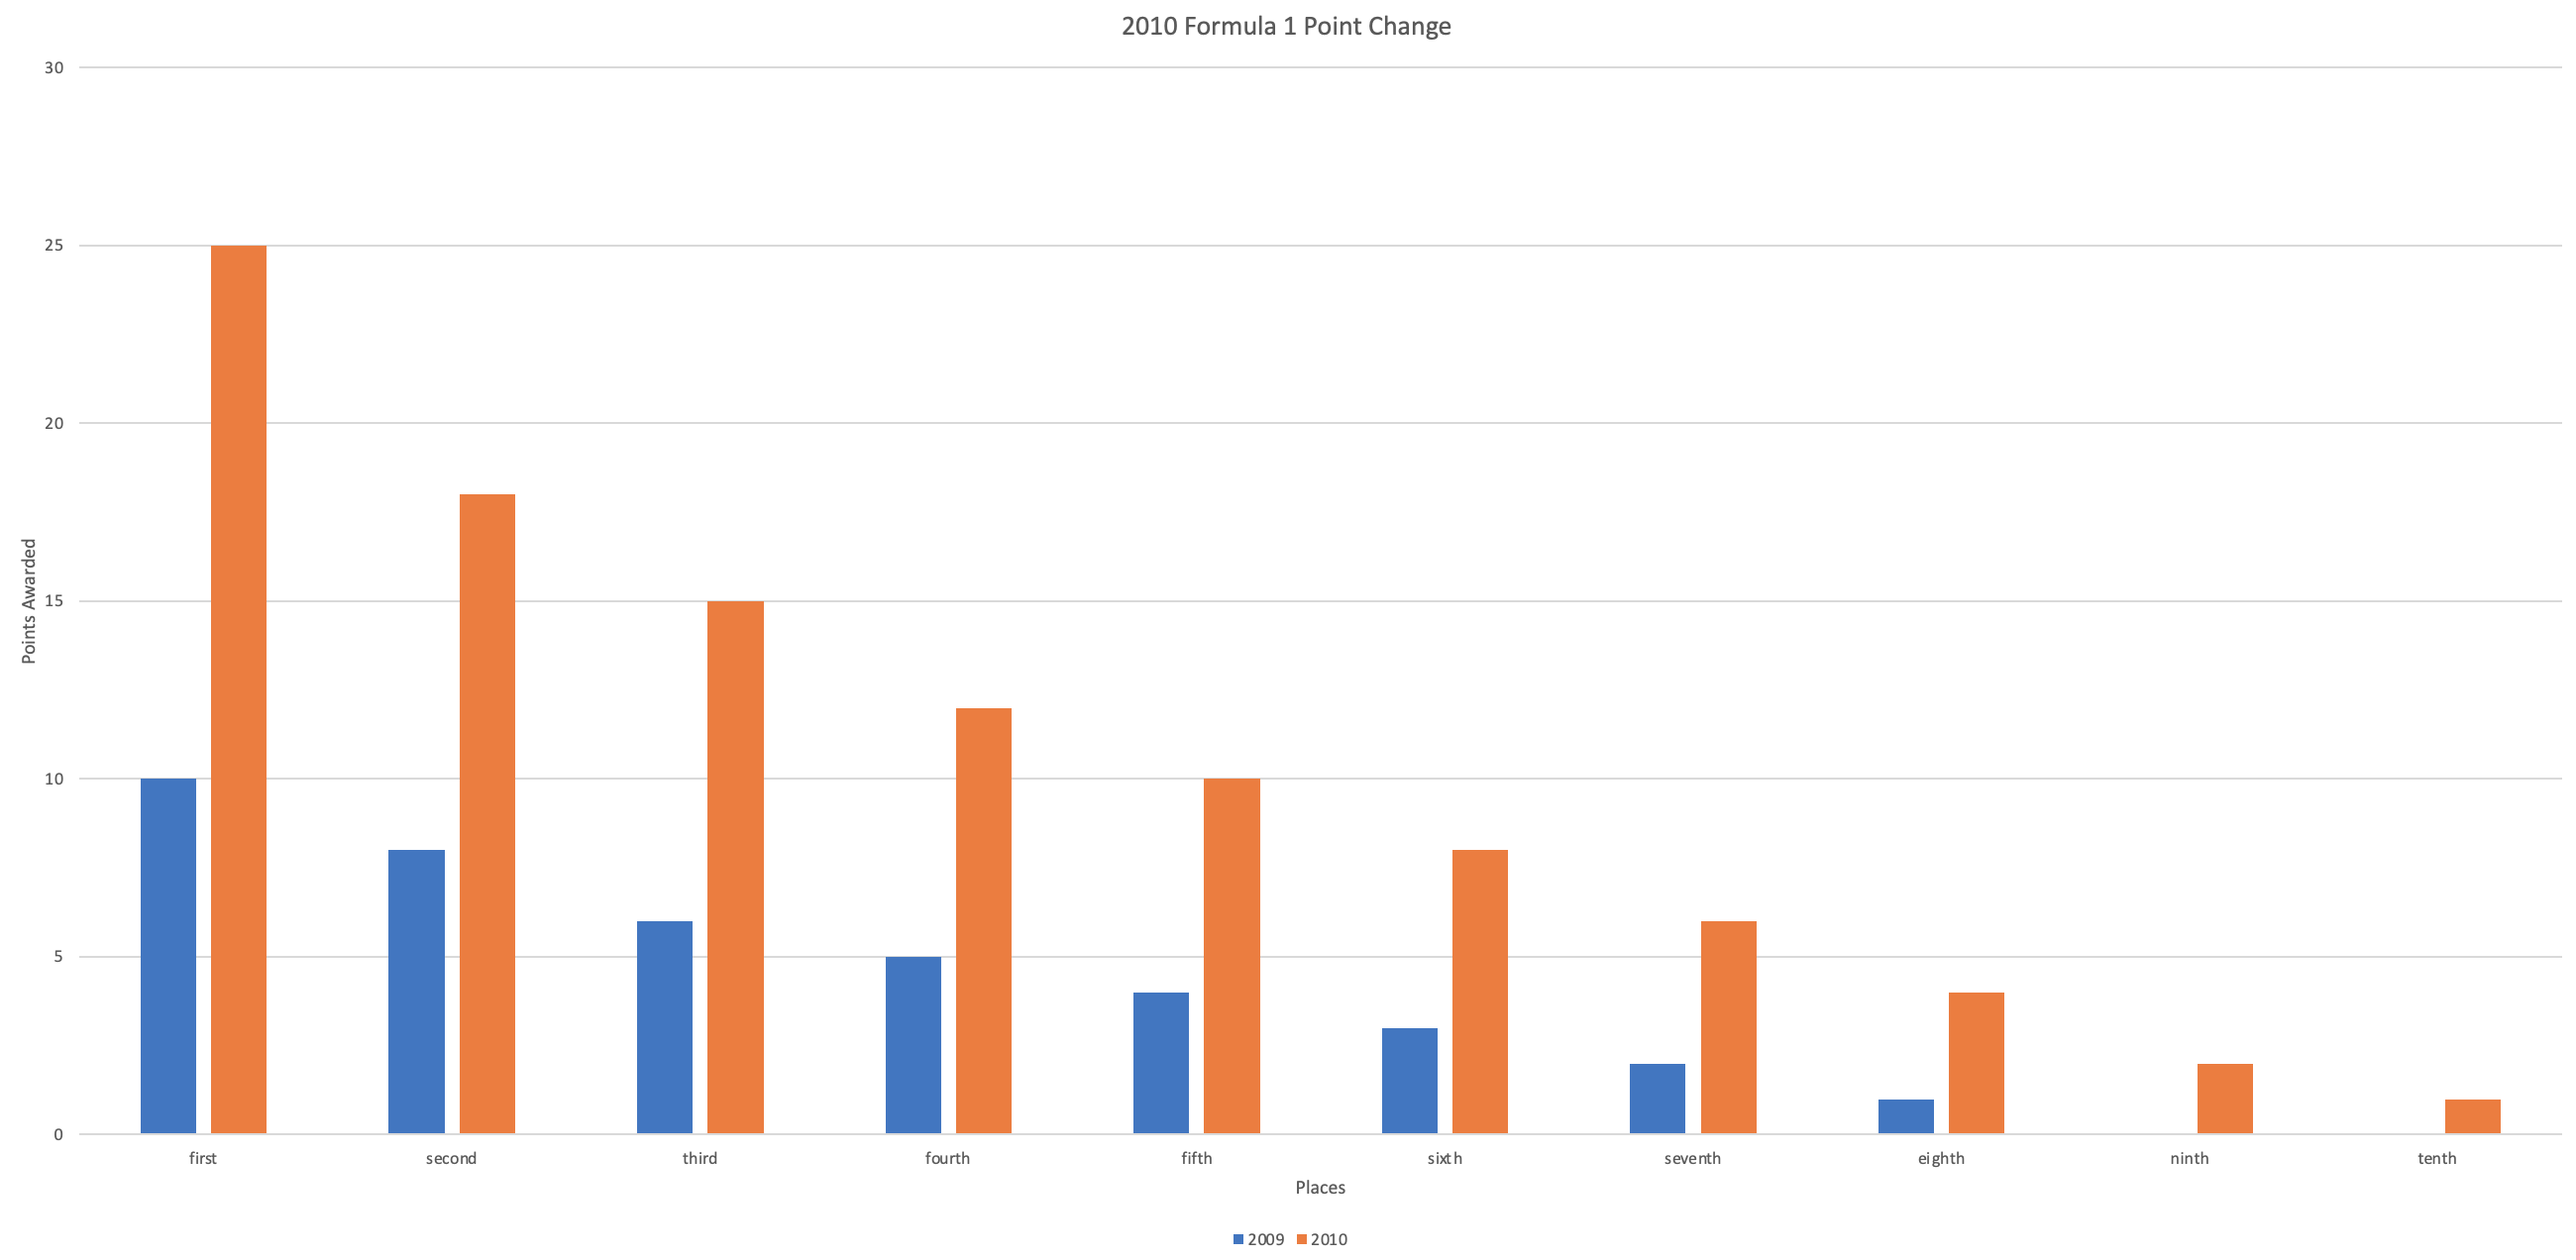
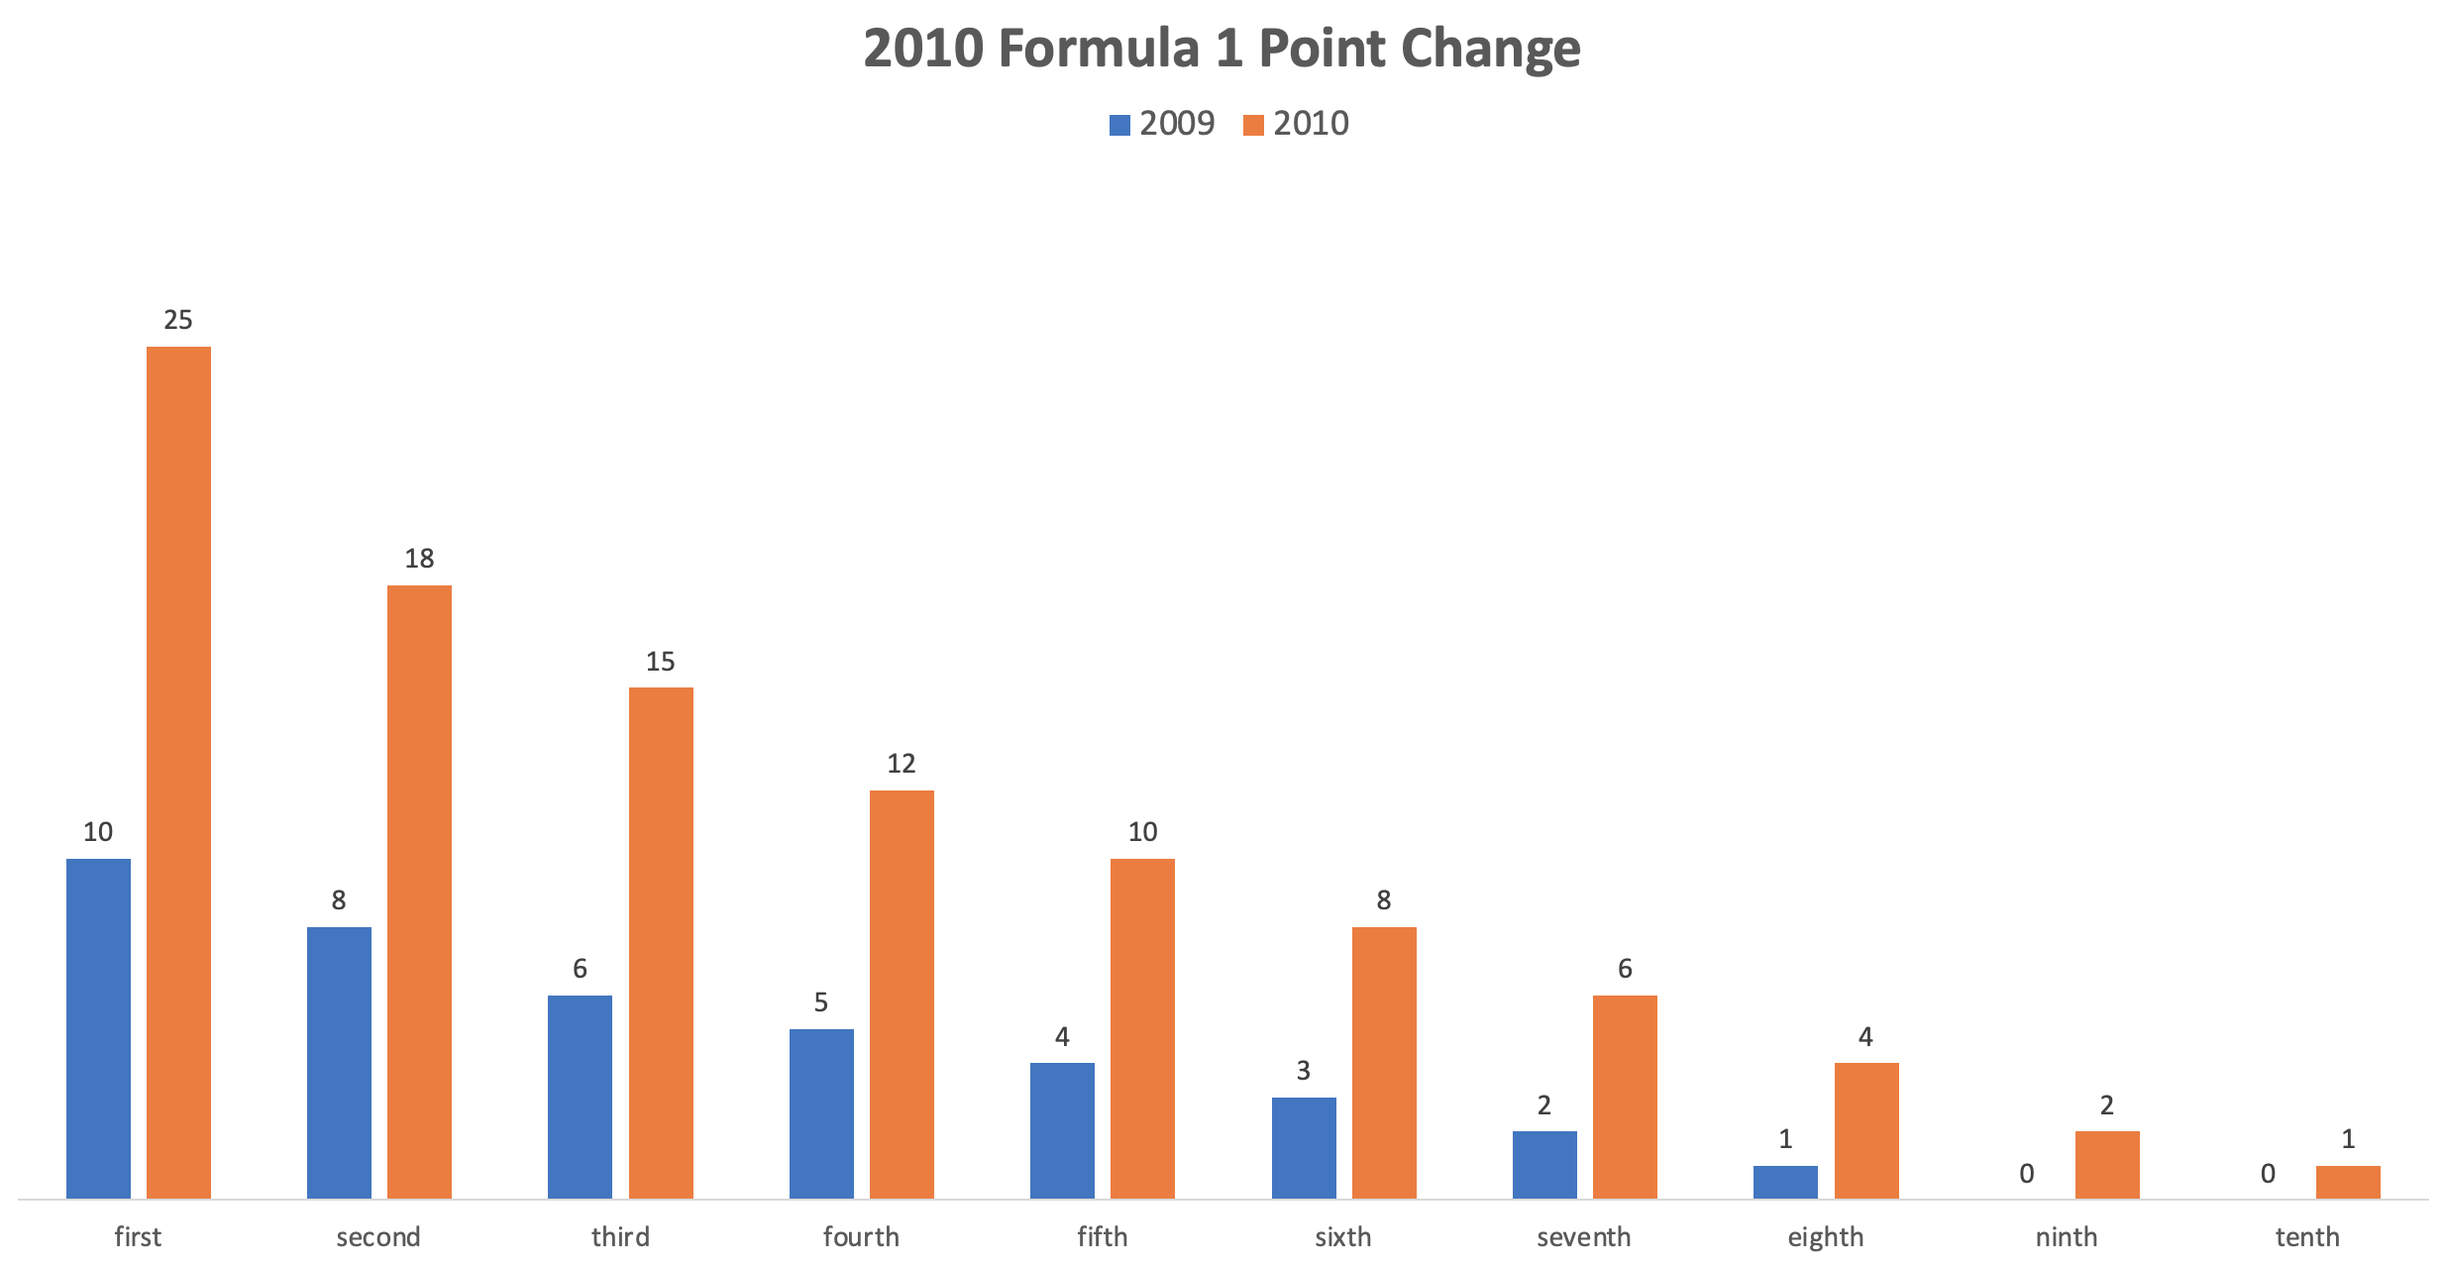
final push

diff --git a/html/callToAction2.html b/html/callToAction2.html
@@ -2,21 +2,28 @@
    
    <head>
     <link href="../css/lines.css" rel="stylesheet" type="text/css">
-    
+
 
 </head>
 
 <body>
 
     <p><a href="Main.html">Main Website</a></p>
-    <div class = "picture"><img src="../scores.jpeg" width=800></div>
-    <div class = "statement"><p>Formula 1 has had races taking place from the 1950s through today. However, as I was examining my graphs for both driver points and constuctor points, I found that a pattern arose: Around the year 2010, a huge spike in points for the teams and drivers placing in the top positions took place. When I looked further, I found that the cause for this taking place had to do with a change in how the points were distributed. Rather than following a generally linear progression of distribution, the FIA (the International Automobile Federation) decided to follow an exponentially decreasing progress. Currently, the driver that comes in first is awarded 25 points, followed by 18 points in 2nd and 15 points in 3rd. This higher separation of points in the top scoring teams and drivers makes it so teams that are already doing poorly continue to do so. Meanwhile, the top teams and drivers rake in more points and dollars than ever. Further, this divide in the sport decreases competativeness between the 10 teams and instead segments them into 3 separate "tiers." In so doing, Formula 1 does what is often an issue in America: Make the rich richer and make the poor poorer.</p></div>
-    
-    
+    <div class="picture"><img src="../scores.jpeg" width=800></div>
+    <div class="statement">
+        <h2>General Overview</h2>
+        <p>Formula 1 has had races taking place from the 1950s through today. However, as I was examining my graphs for both driver points and constuctor points since the 1950s, I found that a pattern arose: Around the year 2010, a huge spike in points for the teams and drivers placing in the top positions took place. When I looked further, I found that the cause for this taking place had to do with a change in how the points were distributed. Rather than following a generally linear progression of distribution, the FIA (the International Automobile Federation) decided to follow an exponentially decreasing progress. Currently, the driver that comes in first is awarded 25 points, followed by 18 points in 2nd and 15 points in 3rd, and so on. This increased separation of points in the top scoring teams and drivers makes it so teams that are already doing poorly continue to do so while the top teams and drivers rake in more points and dollars than ever. Further, this divide in the sport decreases competativeness between the 10 teams and instead segments them into 3 separate "tiers." In so doing, Formula 1 does what is often an issue in America: Make the rich richer and make the poor poorer.</p>
+        <h2>What The Graphs Show</h2>
+        <p>In 2010, a major change in Formula 1 took place: A complete reorganization of point distribution. The first graph emphasizes the spike that took place, which was prevelant in my dashboard, further separating and segmenting the teams from one another. The second graph highlights just how big of an impact this has on the distance from first to tenth place. Previously, the scoring followed a relatively linear distribution of points, and the points now are distributed more on an exponential curve. These graphs help to show just how much this separation means for Formula 1 as a whole.</p>
+        <h2>Solution to the Problem</h2>
+        <p>Simply put, I would urge a return to the old system of point distribution. For the past ten years, the points have been distributed on an exponential curve instead of one that is more linear. In order to foster new teams and drivers, I would encourage the FIA to reconsider a more even distribution of the points. In so doing, I believe the sport would return to its more competative nature and enhance the expiernce for drivers and viewers alike.</p>
+    </div>
+
+
     <!--<svg id="constructorGraph"></svg>-->
     <!--<div class = "graph"><svg id="driverGraph"></svg></div>-->
-    <div class = "picture"><img src="../bars.jpeg" width=800></div>
     
+    <div class="picture"><img src="../bars.jpeg" width=800 height></div>
 
 
 
@@ -29,34 +36,31 @@
 
     <script src="https://d3js.org/d3.v5.min.js"></script>
     <script src="../js/callToAction2.js"></script>
-    
+
     <style>
-    
-    .picture
-        {
+        .picture {
             float: left;
-            width:700
+            width: 700
         }
-        
-    .statement
-        {
+
+        .statement {
             float: right;
             width: 800;
-            height: 500px;
+            height: 875px;
             background-color: aliceblue;
-            line-height: 3
+            line-height: 2
         }
-    .graph
-        {
+
+        .graph {
             float: left;
-            width:700
+            width: 700
         }
-    .list
-        {
+
+        .list {
             float: right
         }
     </style>
-    
+
 
 
 </body></html>

diff --git a/js/Dashboard3.js b/js/Dashboard3.js
@@ -48,7 +48,7 @@ var drawLines3 = function (drivers, target, xScale, yScale) {
         .classed("line", true)
         .attr("fill", "none")
         .attr("stroke", function (competitor) {
-            //console.log("competitor", competitor)
+            console.log("competitor", competitor)
             //console.log("competitor length", competitor.length)
             if (competitor.length > 10) {
                 return colors(competitor[0].Name)
@@ -232,6 +232,8 @@ var drawLabels3 = function (graphDim, margins) {
         .attr("text-anchor", "middle")
         .attr("transform", "rotate(90)")
 }
+
+
 
 
 //sets up several important variables and calls the functions for the visualization.

diff --git a/html/Main.html b/html/Main.html
@@ -15,7 +15,7 @@
         <li><a href="Dashboard4.html">Dashboard 4</a></li>-->
         <li><a href="Combined.html">Dashboard</a></li>
         <li><a href="callToAction2.html">Call To Action</a></li>
-        <li><a href="callToAction.html">Call To Action - no graph</a></li>
+        <!--<li><a href="callToAction.html">Call To Action - no graph</a></li>-->
         </ul>
     </body>
 </html>
